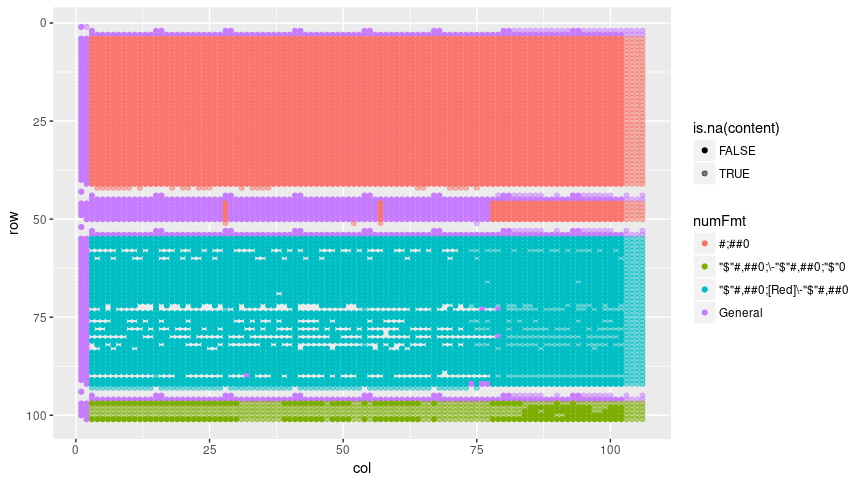
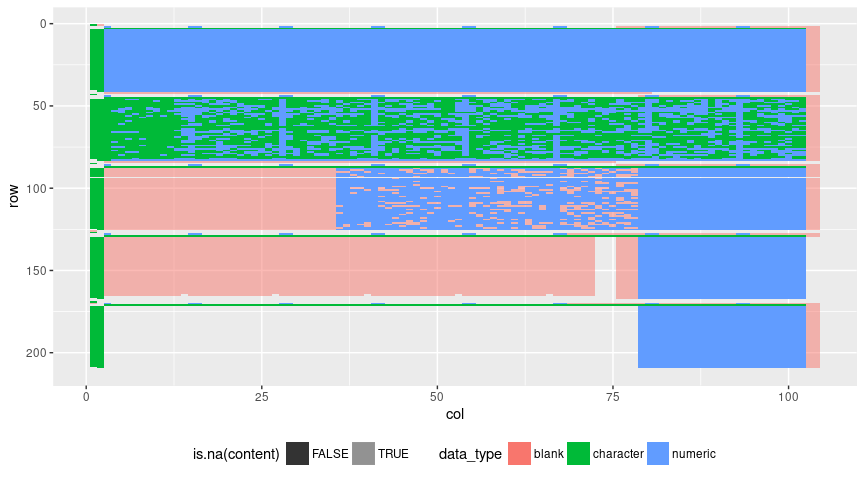
Plot more interesting example

diff --git a/README.md b/README.md
@@ -15,6 +15,15 @@ This is basically a thin wrapper around [`tidyxl`](https://github.com/nacnudus/t
 ``` r
 library(tidyxl)
 library(tidyverse)
+#> Loading tidyverse: ggplot2
+#> Loading tidyverse: tibble
+#> Loading tidyverse: tidyr
+#> Loading tidyverse: readr
+#> Loading tidyverse: purrr
+#> Loading tidyverse: dplyr
+#> Conflicts with tidy packages ----------------------------------------------
+#> filter(): dplyr, stats
+#> lag():    dplyr, stats
 
 x <- tidy_xlsx(system.file("extdata/road-policing-driver-offence-data-jan2009-sep2006.xlsx",
                            package = "nzpullover"))
@@ -22,12 +31,24 @@ x <- tidy_xlsx(system.file("extdata/road-policing-driver-offence-data-jan2009-se
 redlight <- x$data[["Red Light"]]
 redlight$numFmt <- x$formats$local$numFmt[redlight$local_format_id]
 
-ggplot(redlight, aes(col, row,
-           colour = numFmt,
+ggplot(x$data[[4]], aes(col, row,
+           fill = data_type,
            alpha = is.na(content))) +
-geom_point() +
+geom_tile() +
 scale_y_reverse() +
-scale_alpha_manual(values = c(1, .5))
+scale_alpha_manual(values = c(1, .5)) +
+  theme(legend.position = "bottom")
+
+numFmts <- x$formats$local$numFmt
+x$data[[4]] %>%
+  mutate(numFmt = numFmts[local_format_id]) %>%
+  ggplot(aes(col, row,
+             fill = numFmt,
+             alpha = is.na(content))) +
+  geom_tile() +
+  scale_y_reverse() +
+  scale_alpha_manual(values = c(1, .5)) +
+  theme(legend.position = "bottom")
 ```
 
-![](README-unnamed-chunk-2-1.png)
+![](README-unnamed-chunk-2-1.png)![](README-unnamed-chunk-2-2.png)
